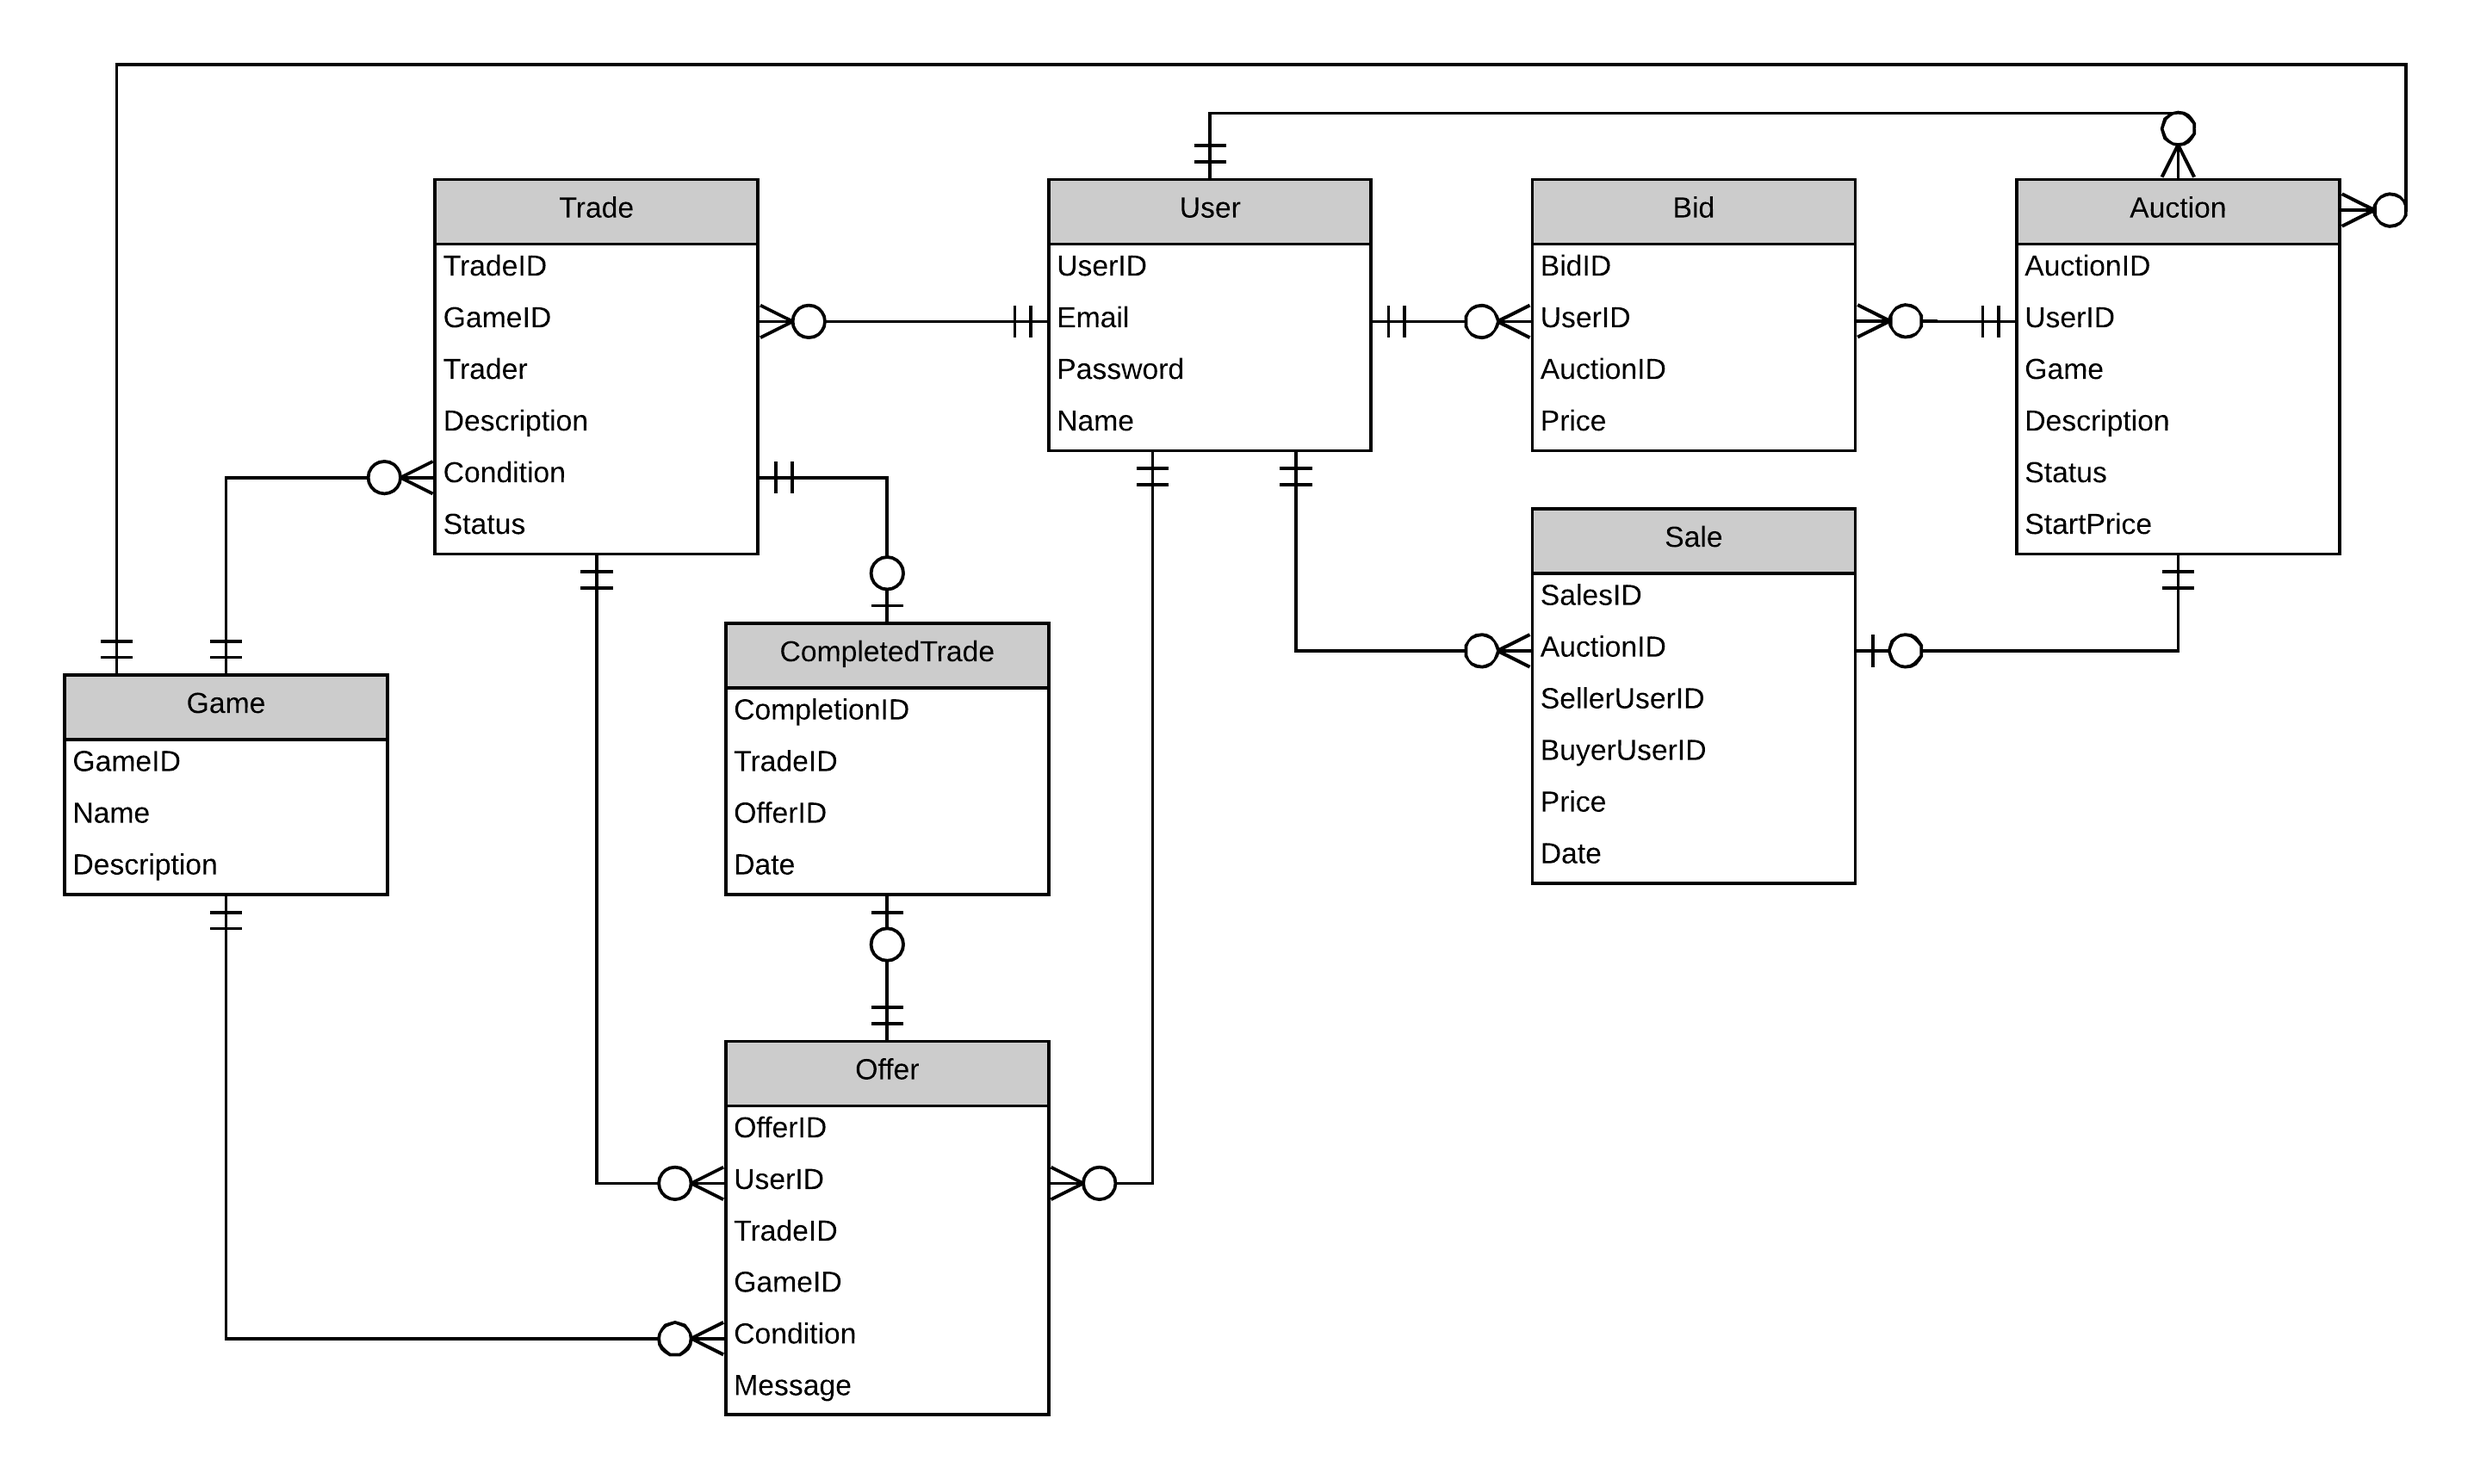
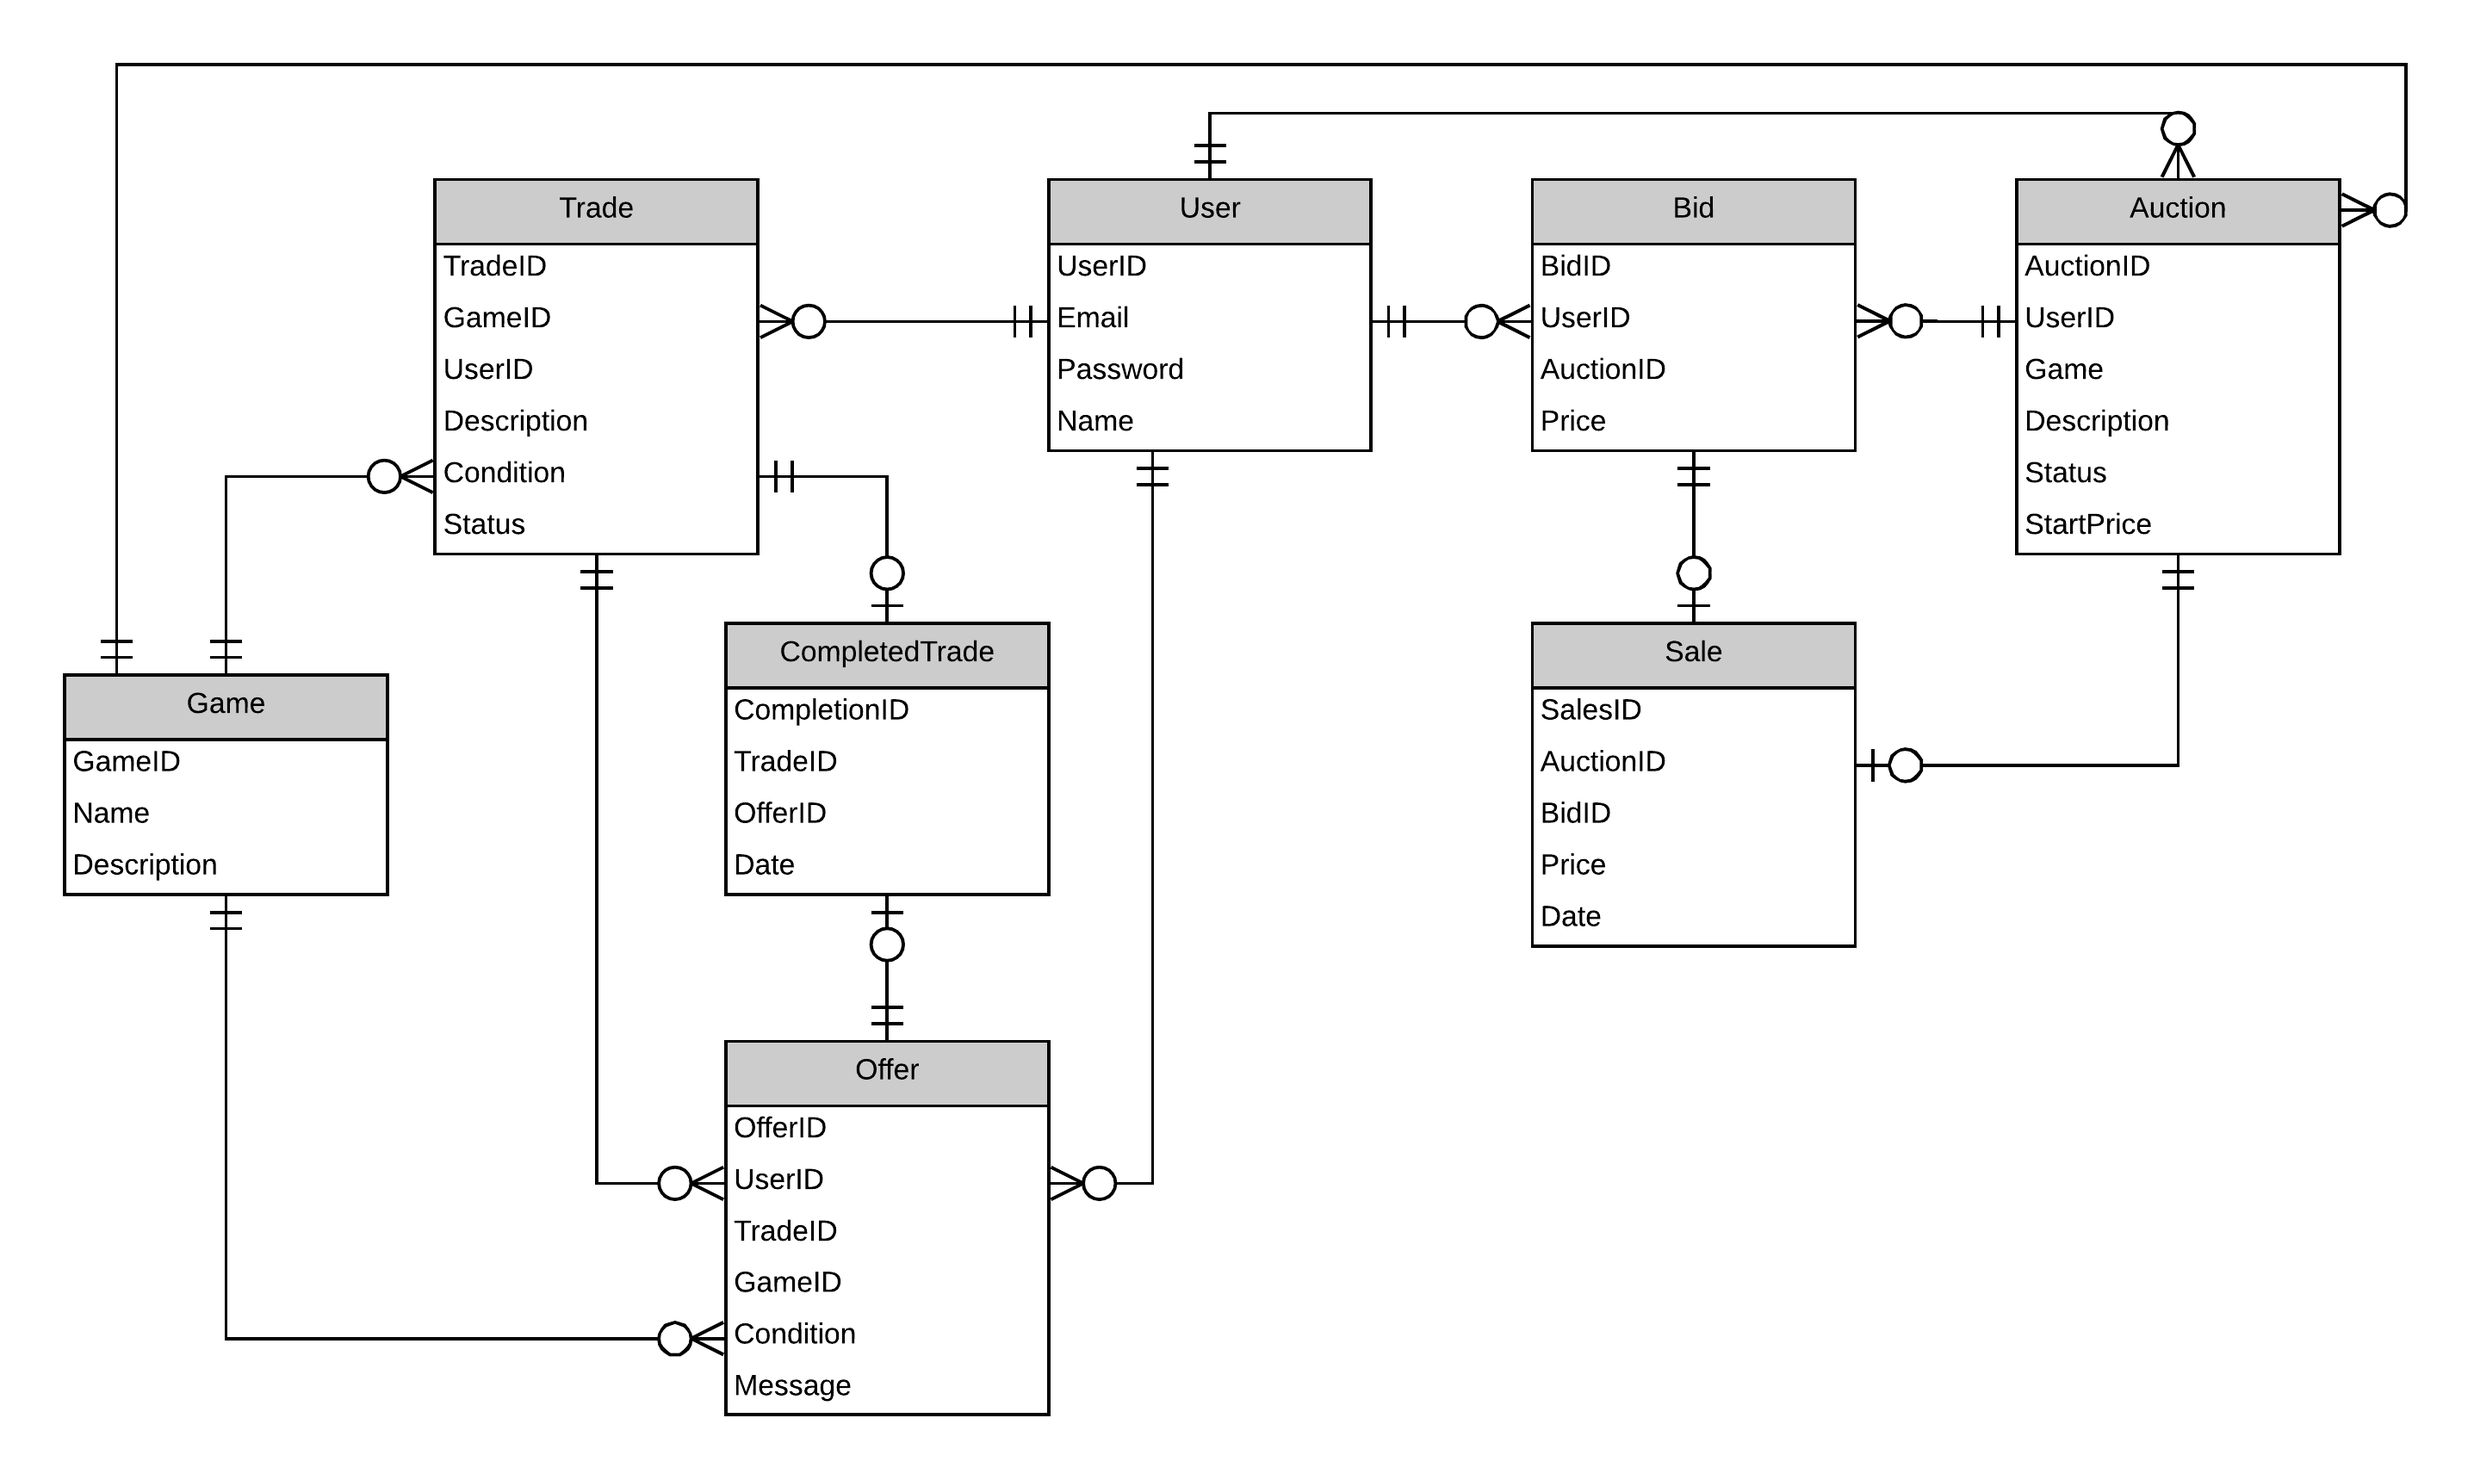
Fixed ERD once again, and updated auction and user models

diff --git a/vbay/server/models/auction.js b/vbay/server/models/auction.js
@@ -1,15 +1,32 @@
-'use strict';
 module.exports = (sequelize, DataTypes) => {
-  const auction = sequelize.define('auction', {
-    auctionid: DataTypes.INTEGER,
-    userid: DataTypes.STRING,
-    gameid: DataTypes.INTEGER,
-    description: DataTypes.STRING,
-    status: DataTypes.STRING,
-    startprice: DataTypes.DOUBLE
-  }, {});
-  auction.associate = function(models) {
-    // associations can be defined here
+  const Auction = sequelize.define('Auction', {
+    auctionid: {
+      type: DataTypes.INTEGER,
+      allowNull: false
+    },
+    userid: {
+      type: DataTypes.STRING,
+      allowNull: false
+    },
+    gameid: {
+      type: DataTypes.INTEGER,
+      allowNull: false
+    },
+    description: {
+      type: DataTypes.STRING,
+      allowNull: false
+    },
+    status: {
+      type: DataTypes.STRING,
+      allowNull: false
+    },
+    startprice: {
+      type: DataTypes.DOUBLE,
+      allowNull: false
+    }
+  });
+  Auction.associate = (models) => {
+    Auction.hasMany(Models.Bid)
   };
-  return auction;
+  return Auction;
 };

diff --git a/vbay/server/models/sale.js b/vbay/server/models/sale.js
@@ -3,12 +3,11 @@ module.exports = (sequelize, DataTypes) => {
   const sale = sequelize.define('sale', {
     saleid: DataTypes.INTEGER,
     auctionid: DataTypes.INTEGER,
-    sellerid: DataTypes.STRING,
-    buyerid: DataTypes.STRING,
+    bidid: DataTypes.STRING,
     price: DataTypes.DOUBLE,
     saledate: DataTypes.STRING
-  }, {});
-  sale.associate = function(models) {
+  });
+  sale.associate = function (models) {
     // associations can be defined here
   };
   return sale;

diff --git a/vbay/server/models/bid.js b/vbay/server/models/bid.js
@@ -1,13 +1,13 @@
 'use strict';
 module.exports = (sequelize, DataTypes) => {
-  const bid = sequelize.define('bid', {
+  const Bid = sequelize.define('Bid', {
     bid: DataTypes.INTEGER,
     userid: DataTypes.STRING,
     auctionid: DataTypes.INTEGER,
     price: DataTypes.DOUBLE
-  }, {});
-  bid.associate = function(models) {
-    // associations can be defined here
+  });
+  Bid.associate = function (models) {
+
   };
-  return bid;
+  return Bid;
 };

diff --git a/vbay/server/models/user.js b/vbay/server/models/user.js
@@ -20,9 +20,13 @@ module.exports = (sequelize, DataTypes) => {
       type: DataTypes.STRING,
       allowNull: true
     }
-  }, {});
+  });
+  User.removeAttribute('id');
   User.associate = function (models) {
-    // associations can be defined here
+    User.hasMany(models.Auction)
+    User.hasMany(models.Bid)
+    User.hasMany(models.Trade)
+    User.hasMany(models.Offer)
   };
   return User;
 };

diff --git a/vbay/server/models/trade.js b/vbay/server/models/trade.js
@@ -6,7 +6,7 @@ module.exports = (sequelize, DataTypes) => {
     description: DataTypes.STRING,
     condition: DataTypes.STRING,
     status: DataTypes.STRING
-  }, {});
+  });
   Trade.associate = (models) => {
 
   };
